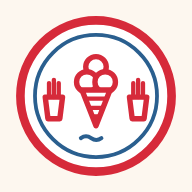
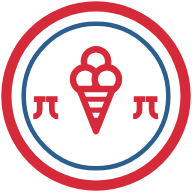
Logoet er hovedversionen - og topbjaelken fik den lille variant
Mikkel afleverede den opdaterede hovedversion sammen med sin nye
intro-animation. Ingen SQL.

GEOMETRIEN ER HANS, IKKE TEGNET EFTER ET SKUD. Jeg var ved at trace
maerkerne i siden af et skaermbillede og laeste dem som pi - de er
et J og dets spejlbillede, hvilket foerst stod klart da intro-filen
kom. En krans der er en smule forkert ser rigtig ud; samme lære som
QR-koderne fik 23/8. Bed om vektoren foer du tegner et logo efter et
billede.

Tre ting skiftede: baegrene med pommes og boelgen er ude,
JI-maerkerne og EST. 2025 er inde. Ringene, ringteksten, isen og
keglen er uaendret.

- 15 kranse i 13 filer, plus favicon og de to PWA-ikoner. Ikonerne
  tegnes AF favicon.svg (vaerktoej/lav-ikoner.js), saa de tre flader
  ikke kan skride fra hinanden - arret fra 29/8
- EST. 2025 er logoets egen blaa (#2a5f8f). Hele den marineblaa
  familie er ellers forbudt i stilarkene; her hoerer den til, for et
  logo skifter ikke farve med et tema
- Favicon og app-ikon har ikke EST. 2025, af samme grund som de ikke
  har ringteksten

OG TOPBJAELKENS KRANS VAR ULAESELIG - MAALT, IKKE SET. Briefen siger
"under ca. 60 px bliver ringteksten ulaeselig", og maalingen gav ham
ret: de tolv kranse i topbjaelkerne stod paa 28-50 px. De er den
lille variant nu (kun ring og is, tykkere streger, ingen tekst).
Heroens (108-140 px), introens og skiltets (80 px paa papir) er den
fulde.

- Ordmaerket ved siden af er IKKE bygget. Briefens topbjaelke har
[…]

diff --git a/index.html b/index.html
@@ -58,7 +58,7 @@
      briefen, at den kun var til gennemsyn.
      ============================================================ -->
 <div id="intro" role="presentation"><canvas id="water" aria-hidden="true"></canvas>
-<div class="logo" id="logo"><svg class="crest" viewBox="0 0 300 300" role="img" aria-label="Mosede Havnecafe"><defs><path id="in2" d="M38.65 109.5A118.5 118.5 0 0 1 261.35 109.5"/></defs><circle cx="150" cy="150" r="140" fill="#fff" stroke="#d62a3a" stroke-width="8"/><circle cx="150" cy="150" r="113" fill="none" stroke="#2a5f8f" stroke-width="3.4"/><text class="ct" text-anchor="middle"><textPath href="#in2" startOffset="50%">MOSEDE HAVNECAFE</textPath></text><path d="M122 228q9.5-7 19 0t19 0" fill="none" stroke="#2a5f8f" stroke-width="3.6" stroke-linecap="round"/><g fill="#fff" stroke="#d62a3a" stroke-width="4.6" stroke-linejoin="round" stroke-linecap="round"><circle cx="150" cy="96" r="19"/><circle cx="133" cy="124" r="19"/><circle cx="167" cy="124" r="19"/><path d="M124 139h52l-26 66z"/><path d="M56 152h32l-5 40H61z"/><path d="M212 152h32l-5 40h-22z"/></g><g fill="none" stroke="#d62a3a" stroke-width="3.6" stroke-linejoin="round" stroke-linecap="round"><path d="M131 155h38M138 172h24M144 188h12"/><path d="M63 152v-26M72 152v-32M81 152v-26"/><path d="M219 152v-26M228 152v-32M237 152v-26"/></g></svg>
+<div class="logo" id="logo"><svg class="crest" viewBox="0 0 300 300" role="img" aria-label="Mosede Havnecafe"><defs><path id="in2" d="M38.65 109.5A118.5 118.5 0 0 1 261.35 109.5"/><g id="in2j" fill="none" stroke="#d62a3a" stroke-width="5.4" stroke-linecap="butt"><path d="M2 3h18M11 3v17a10 10 0 0 1-10 10"/><g transform="translate(41 0) scale(-1 1)"><path d="M2 3h18M11 3v17a10 10 0 0 1-10 10"/></g></g></defs><circle cx="150" cy="150" r="140" fill="#fff" stroke="#d62a3a" stroke-width="8"/><circle cx="150" cy="150" r="113" fill="none" stroke="#2a5f8f" stroke-width="3.4"/><text class="ct" text-anchor="middle"><textPath href="#in2" startOffset="50%">MOSEDE HAVNECAFE</textPath></text><g fill="#fff" stroke="#d62a3a" stroke-width="4.6" stroke-linejoin="round" stroke-linecap="round"><circle cx="150" cy="96" r="19"/><circle cx="133" cy="124" r="19"/><circle cx="167" cy="124" r="19"/><path d="M124 139h52l-26 66z"/></g><g fill="none" stroke="#d62a3a" stroke-width="3.6" stroke-linejoin="round" stroke-linecap="round"><path d="M131 155h38M138 172h24M144 188h12"/></g><use href="#in2j" transform="translate(51 152)"/><use href="#in2j" transform="translate(207 152)"/><text class="est" x="150" y="236" text-anchor="middle">EST. 2025</text></svg>
 <div class="clipe"><div id="film"></div></div><div class="clipe"><div id="sheen"></div></div></div>
 <canvas id="fx" aria-hidden="true"></canvas></div>
 <div class="device">
@@ -90,10 +90,10 @@
   <p id="topstribe-tekst"></p>
 </div>
 
-<div class="topbar" id="tb"><div class="brandmark"><svg class="crest" viewBox="0 0 300 300" role="img" aria-label="Mosede Havnecafe"><defs><path id="ta" d="M38.65 109.5A118.5 118.5 0 0 1 261.35 109.5"/></defs><circle cx="150" cy="150" r="140" fill="#fff" stroke="#d62a3a" stroke-width="8"/><circle cx="150" cy="150" r="113" fill="none" stroke="#2a5f8f" stroke-width="3.4"/><text class="ct" text-anchor="middle"><textPath href="#ta" startOffset="50%">MOSEDE HAVNECAFE</textPath></text><path d="M122 228q9.5-7 19 0t19 0" fill="none" stroke="#2a5f8f" stroke-width="3.6" stroke-linecap="round"/><g fill="#fff" stroke="#d62a3a" stroke-width="4.6" stroke-linejoin="round" stroke-linecap="round"><circle cx="150" cy="96" r="19"/><circle cx="133" cy="124" r="19"/><circle cx="167" cy="124" r="19"/><path d="M124 139h52l-26 66z"/><path d="M56 152h32l-5 40H61z"/><path d="M212 152h32l-5 40h-22z"/></g><g fill="none" stroke="#d62a3a" stroke-width="3.6" stroke-linejoin="round" stroke-linecap="round"><path d="M131 155h38M138 172h24M144 188h12"/><path d="M63 152v-26M72 152v-32M81 152v-26"/><path d="M219 152v-26M228 152v-32M237 152v-26"/></g></svg></div><span class="sp"></span><button class="g icn dark menu" id="burger" aria-label="Menu"><svg viewBox="0 0 24 24" fill="none" stroke="currentColor" stroke-width="2" stroke-linecap="round"><path d="M4 7h16M4 12h16M4 17h16"/></svg></button></div>
+<div class="topbar" id="tb"><div class="brandmark"><svg class="crest lille" viewBox="0 0 300 300" role="img" aria-label="Mosede Havnecafe"><circle cx="150" cy="150" r="140" fill="#fff" stroke="#d62a3a" stroke-width="16"/><g fill="#fff" stroke="#d62a3a" stroke-width="11" stroke-linejoin="round" stroke-linecap="round"><circle cx="150" cy="98" r="22"/><circle cx="131" cy="130" r="22"/><circle cx="169" cy="130" r="22"/><path d="M122 146h56l-28 68z"/></g></svg></div><span class="sp"></span><button class="g icn dark menu" id="burger" aria-label="Menu"><svg viewBox="0 0 24 24" fill="none" stroke="currentColor" stroke-width="2" stroke-linecap="round"><path d="M4 7h16M4 12h16M4 17h16"/></svg></button></div>
 
 <div class="hero">
-  <div class="hero-badge"><svg class="crest" viewBox="0 0 300 300" role="img" aria-label="Mosede Havnecafe"><defs><path id="ta2" d="M38.65 109.5A118.5 118.5 0 0 1 261.35 109.5"/></defs><circle cx="150" cy="150" r="140" fill="#fff" stroke="#d62a3a" stroke-width="8"/><circle cx="150" cy="150" r="113" fill="none" stroke="#2a5f8f" stroke-width="3.4"/><text class="ct" text-anchor="middle"><textPath href="#ta2" startOffset="50%">MOSEDE HAVNECAFE</textPath></text><path d="M122 228q9.5-7 19 0t19 0" fill="none" stroke="#2a5f8f" stroke-width="3.6" stroke-linecap="round"/><g fill="#fff" stroke="#d62a3a" stroke-width="4.6" stroke-linejoin="round" stroke-linecap="round"><circle cx="150" cy="96" r="19"/><circle cx="133" cy="124" r="19"/><circle cx="167" cy="124" r="19"/><path d="M124 139h52l-26 66z"/><path d="M56 152h32l-5 40H61z"/><path d="M212 152h32l-5 40h-22z"/></g><g fill="none" stroke="#d62a3a" stroke-width="3.6" stroke-linejoin="round" stroke-linecap="round"><path d="M131 155h38M138 172h24M144 188h12"/><path d="M63 152v-26M72 152v-32M81 152v-26"/><path d="M219 152v-26M228 152v-32M237 152v-26"/></g></svg></div>
+  <div class="hero-badge"><svg class="crest" viewBox="0 0 300 300" role="img" aria-label="Mosede Havnecafe"><defs><path id="ta2" d="M38.65 109.5A118.5 118.5 0 0 1 261.35 109.5"/><g id="ta2j" fill="none" stroke="#d62a3a" stroke-width="5.4" stroke-linecap="butt"><path d="M2 3h18M11 3v17a10 10 0 0 1-10 10"/><g transform="translate(41 0) scale(-1 1)"><path d="M2 3h18M11 3v17a10 10 0 0 1-10 10"/></g></g></defs><circle cx="150" cy="150" r="140" fill="#fff" stroke="#d62a3a" stroke-width="8"/><circle cx="150" cy="150" r="113" fill="none" stroke="#2a5f8f" stroke-width="3.4"/><text class="ct" text-anchor="middle"><textPath href="#ta2" startOffset="50%">MOSEDE HAVNECAFE</textPath></text><g fill="#fff" stroke="#d62a3a" stroke-width="4.6" stroke-linejoin="round" stroke-linecap="round"><circle cx="150" cy="96" r="19"/><circle cx="133" cy="124" r="19"/><circle cx="167" cy="124" r="19"/><path d="M124 139h52l-26 66z"/></g><g fill="none" stroke="#d62a3a" stroke-width="3.6" stroke-linejoin="round" stroke-linecap="round"><path d="M131 155h38M138 172h24M144 188h12"/></g><use href="#ta2j" transform="translate(51 152)"/><use href="#ta2j" transform="translate(207 152)"/><text class="est" x="150" y="236" text-anchor="middle">EST. 2025</text></svg></div>
   <div class="hero-in">
     <h1>Grillmad, smørrebrød og <em>is</em> direkte ved havnen</h1>
     <span class="status"><span class="dot"></span>Lukket lige nu · åbner 10.00</span>

diff --git a/tests/kontakt-post.spec.js b/tests/kontakt-post.spec.js
@@ -568,8 +568,22 @@ test.describe('Fanens ikon er kransen', () => {
        stilarkene, men her hører den til. */
     expect(svg, 'kransens blå inderring mangler — det er ikke logoet')
       .toContain('#2a5f8f');
-    expect(svg, 'bølgen under isen mangler')
-      .toMatch(/M122 228q9\.5-7 19 0t19 0/);
+
+    /* ⚠ VENDT 3/9 — HOVEDVERSIONEN. Her stod, at BØLGEN skulle
+       være der. Mikkel afleverede den opdaterede hovedversion med
+       sin egen intro-fil: bølgen og bægrene med pommes er ude, og
+       JI-mærkerne (et J og dets spejlbillede) er inde. Det er
+       kundens beslutning om sit eget logo, ikke en forældet prøve.
+
+       Reglen, prøven vogter, er den SAMME og den vigtigste: at
+       ikonet er logoet og ikke en forenklet efterligning. Det er
+       bare J'et og ikke bølgen, der nu er kendingen. */
+    expect(svg, 'JI-mærkerne mangler — det er ikke hovedversionen')
+      .toMatch(/M11 3v17a10 10 0 0 1-10 10/);
+    expect(svg, 'bølgen er tilbage — den hører til den GAMLE krans')
+      .not.toContain('M122 228');
+    expect(svg, 'bægrene med pommes er tilbage — de er ude af hovedversionen')
+      .not.toContain('M56 152h32');
     /* Bådens to farver må aldrig komme igen. #0f2c44 var
        marineblå fra den GAMLE forside, #d1462f den gamle røde. */
     expect(svg, 'den gamle båds marineblå er tilbage i ikonet')
@@ -675,7 +689,12 @@ test.describe('Mærket er den runde krans', () => {
     let kranse = 0;
     for (const f of sider) {
       const tekst = fs.readFileSync(path.join(ROD, f), 'utf8');
-      if (!tekst.includes('class="crest"')) continue;
+      /* ⚠ TO VARIANTER SIDEN 3/9, og de tælles begge. Topbjælken
+         bruger den LILLE (class="crest lille"), heroen og skiltet
+         den fulde — så en prøve, der kun kendte den ene, ville
+         tælle 2 i stedet for 12 og se ud som om mærket var røget
+         af ti sider. Det skete, første gang varianten kom ind. */
+      if (!tekst.includes('class="crest')) continue;
       kranse++;
       expect(tekst, f + ' har den gamle ovale krans (200x140)')
         .not.toContain('viewBox="0 0 200 140"');
@@ -683,6 +702,15 @@ test.describe('Mærket er den runde krans', () => {
         .not.toContain('OG ISHUS');
       expect(tekst, f + ' har en krans, der ikke er den runde (300-net)')
         .toContain('viewBox="0 0 300 300"');
+
+      /* ⚠ HOVEDVERSIONEN FRA 3/9. Bølgen og bægrene med pommes
+         er ude af logoet — står de på en side, er det den GAMLE
+         krans, og to mærker på det samme hus er præcis den fejl,
+         kunden selv fangede 29/8. */
+      expect(tekst, f + ' har den gamle bølge under isen')
+        .not.toContain('M122 228');
+      expect(tekst, f + ' har de gamle bægre med pommes')
+        .not.toContain('M56 152h32');
     }
     /* Tallet faldt fra 19 til 12 den 30/8, da syv gamle adresser
        blev til vejvisere — ikke fordi mærket forsvandt fra en
@@ -691,6 +719,76 @@ test.describe('Mærket er den runde krans', () => {
        anden halvdel af fejlen fra 29/8 (ni sider uden favicon). */
     expect(kranse).toBeGreaterThanOrEqual(12);
   });
+
+  /* ============================================================
+     DEN LILLE VARIANT UNDER 60 PX  (3/9)
+     ------------------------------------------------------------
+     Briefens ord: ".top .mini bruger den lille logovariant (kun
+     ring og is, ingen tekst). Under ca. 60 px bliver ringteksten
+     ulæselig — brug altid den lille variant der."
+
+     ⚠ OG DET ER MÅLT, IKKE TROET: de tolv kranse i topbjælkerne
+     stod på 28-50 px, og "MOSEDE HAVNECAFE" var en grå udtværing
+     hele vejen rundt. Prøven læser den RENDEREDE bredde, ikke
+     stilarket — en krans, der en dag bliver mindre, falder her.
+     ============================================================ */
+  const MED_TOPBJAELKE = ['/index.html', '/m-menukort.html', '/m-tapas.html',
+    '/h-smorrebrod.html', '/h-selskaber.html', '/h-baglokale.html',
+    '/h-catering.html', '/h-frokost.html', '/h-kalender.html',
+    '/historien.html', '/bestil/', '/bord/'];
+
+  for (const side of MED_TOPBJAELKE) {
+    test('kransen under 60 px er den lille variant · ' + side,
+      async ({ page }) => {
+        await page.goto(side, { waitUntil: 'domcontentloaded' });
+        await page.evaluate(() => {
+          const i = document.getElementById('intro');
+          if (i) i.remove();
+        });
+        const maal = await page.evaluate(() => [...document.querySelectorAll('.crest')]
+          .map((c) => ({
+            w: Math.round(c.getBoundingClientRect().width),
+            /* Ringteksten ER kendingen på den fulde variant. */
+            tekst: !!c.querySelector('.ct'),
+            lille: c.classList.contains('lille'),
+          }))
+          .filter((x) => x.w > 0));
+
+        expect(maal.length, side + ' har ingen krans').toBeGreaterThan(0);
+        for (const m of maal) {
+          if (m.w < 60) {
+            expect(m.lille,
+              side + ': en krans på ' + m.w + ' px er den FULDE variant — '
+              + 'ringteksten er en grå udtværing dernede').toBe(true);
+            expect(m.tekst,
+              side + ': den lille variant har ringtekst').toBe(false);
+          }
+        }
+      });
+  }
+
+  /* ⚠ OG DEN FULDE VARIANT SKAL STADIG FINDES — ellers kunne man
+     "bestå" ovenstående ved at gøre hver eneste krans lille, og så
+     stod navnet ingen steder i mærket. Heroen på forsiden er den
+     ene, der er stor nok. */
+  test('heroens krans er den fulde, med ringtekst og EST. 2025',
+    async ({ page }) => {
+      await page.goto('/index.html', { waitUntil: 'domcontentloaded' });
+      await page.evaluate(() => {
+        const i = document.getElementById('intro');
+        if (i) i.remove();
+      });
+      const k = page.locator('.hero-badge .crest');
+      expect(await k.evaluate((c) => Math.round(c.getBoundingClientRect().width)))
+        .toBeGreaterThanOrEqual(60);
+      await expect(k.locator('.ct')).toHaveText(/MOSEDE HAVNECAFE/);
+      await expect(k.locator('.est')).toHaveText('EST. 2025');
+      /* De to farver er LOGOETS egne, ikke sidens tema. */
+      expect(await k.locator('.ct').evaluate((e) => getComputedStyle(e).fill))
+        .toBe('rgb(214, 42, 58)');
+      expect(await k.locator('.est').evaluate((e) => getComputedStyle(e).fill))
+        .toBe('rgb(42, 95, 143)');
+    });
 
   /* ÉN RØD — OG INGEN MARINEBLÅ — PÅ HELE HUSET (29/8).
      style.css' --red var #d1462f, den gamle orange-røde, og hele

diff --git a/h-kalender.html b/h-kalender.html
@@ -40,7 +40,7 @@
 <link rel="icon" href="favicon.svg" type="image/svg+xml"><link rel="stylesheet" href="havnegrillen.css?v=__V__"><link rel="stylesheet" href="havnegrillen-desktop.css?v=__V__"></head><body class="hav">
 <div class="device">
 <div class="screen" id="sc">
-<div class="topbar" id="tb"><a class="g icn dark" href="index.html" aria-label="Tilbage"><svg viewBox="0 0 24 24" fill="none" stroke="currentColor" stroke-width="2" stroke-linecap="round" stroke-linejoin="round"><path d="M14 6l-6 6 6 6"/></svg></a><div class="brandmark" style="width:45px"><svg class="crest" viewBox="0 0 300 300" role="img" aria-label="Mosede Havnecafe"><defs><path id="ta_hkalenderhtml" d="M38.65 109.5A118.5 118.5 0 0 1 261.35 109.5"/></defs><circle cx="150" cy="150" r="140" fill="#fff" stroke="#d62a3a" stroke-width="8"/><circle cx="150" cy="150" r="113" fill="none" stroke="#2a5f8f" stroke-width="3.4"/><text class="ct" text-anchor="middle"><textPath href="#ta_hkalenderhtml" startOffset="50%">MOSEDE HAVNECAFE</textPath></text><path d="M122 228q9.5-7 19 0t19 0" fill="none" stroke="#2a5f8f" stroke-width="3.6" stroke-linecap="round"/><g fill="#fff" stroke="#d62a3a" stroke-width="4.6" stroke-linejoin="round" stroke-linecap="round"><circle cx="150" cy="96" r="19"/><circle cx="133" cy="124" r="19"/><circle cx="167" cy="124" r="19"/><path d="M124 139h52l-26 66z"/><path d="M56 152h32l-5 40H61z"/><path d="M212 152h32l-5 40h-22z"/></g><g fill="none" stroke="#d62a3a" stroke-width="3.6" stroke-linejoin="round" stroke-linecap="round"><path d="M131 155h38M138 172h24M144 188h12"/><path d="M63 152v-26M72 152v-32M81 152v-26"/><path d="M219 152v-26M228 152v-32M237 152v-26"/></g></svg></div><span class="sp"></span><button class="g icn dark menu" id="burger" aria-label="Menu"><svg viewBox="0 0 24 24" fill="none" stroke="currentColor" stroke-width="2" stroke-linecap="round"><path d="M4 7h16M4 12h16M4 17h16"/></svg></button></div>
+<div class="topbar" id="tb"><a class="g icn dark" href="index.html" aria-label="Tilbage"><svg viewBox="0 0 24 24" fill="none" stroke="currentColor" stroke-width="2" stroke-linecap="round" stroke-linejoin="round"><path d="M14 6l-6 6 6 6"/></svg></a><div class="brandmark" style="width:45px"><svg class="crest lille" viewBox="0 0 300 300" role="img" aria-label="Mosede Havnecafe"><circle cx="150" cy="150" r="140" fill="#fff" stroke="#d62a3a" stroke-width="16"/><g fill="#fff" stroke="#d62a3a" stroke-width="11" stroke-linejoin="round" stroke-linecap="round"><circle cx="150" cy="98" r="22"/><circle cx="131" cy="130" r="22"/><circle cx="169" cy="130" r="22"/><path d="M122 146h56l-28 68z"/></g></svg></div><span class="sp"></span><button class="g icn dark menu" id="burger" aria-label="Menu"><svg viewBox="0 0 24 24" fill="none" stroke="currentColor" stroke-width="2" stroke-linecap="round"><path d="M4 7h16M4 12h16M4 17h16"/></svg></button></div>
 <div class="phead"><div class="eyebrow">Hvad sker der</div><h1>Kalender og<br>arrangementer</h1><div class="dots"><i></i><i></i><i></i><i></i><i></i><i></i></div><p class="sub">Live musik på molen, fællesspisning og torskegilde. Reservér en plads, eller kig bare forbi.</p></div>
 <section style="padding-top:20px">
 <div class="chipset rev" data-chips="single" style="justify-content:center"><button class="on">Alt</button><button>Musik</button><button>Spisning</button><button>Fest</button></div>

diff --git a/h-baglokale.html b/h-baglokale.html
@@ -40,7 +40,7 @@
 <link rel="icon" href="favicon.svg" type="image/svg+xml"><link rel="stylesheet" href="havnegrillen.css?v=__V__"><link rel="stylesheet" href="havnegrillen-desktop.css?v=__V__"></head><body class="hav">
 <div class="device">
 <div class="screen" id="sc">
-<div class="topbar" id="tb"><a class="g icn dark" href="index.html" aria-label="Tilbage"><svg viewBox="0 0 24 24" fill="none" stroke="currentColor" stroke-width="2" stroke-linecap="round" stroke-linejoin="round"><path d="M14 6l-6 6 6 6"/></svg></a><div class="brandmark" style="width:45px"><svg class="crest" viewBox="0 0 300 300" role="img" aria-label="Mosede Havnecafe"><defs><path id="ta_hbaglokalehtml" d="M38.65 109.5A118.5 118.5 0 0 1 261.35 109.5"/></defs><circle cx="150" cy="150" r="140" fill="#fff" stroke="#d62a3a" stroke-width="8"/><circle cx="150" cy="150" r="113" fill="none" stroke="#2a5f8f" stroke-width="3.4"/><text class="ct" text-anchor="middle"><textPath href="#ta_hbaglokalehtml" startOffset="50%">MOSEDE HAVNECAFE</textPath></text><path d="M122 228q9.5-7 19 0t19 0" fill="none" stroke="#2a5f8f" stroke-width="3.6" stroke-linecap="round"/><g fill="#fff" stroke="#d62a3a" stroke-width="4.6" stroke-linejoin="round" stroke-linecap="round"><circle cx="150" cy="96" r="19"/><circle cx="133" cy="124" r="19"/><circle cx="167" cy="124" r="19"/><path d="M124 139h52l-26 66z"/><path d="M56 152h32l-5 40H61z"/><path d="M212 152h32l-5 40h-22z"/></g><g fill="none" stroke="#d62a3a" stroke-width="3.6" stroke-linejoin="round" stroke-linecap="round"><path d="M131 155h38M138 172h24M144 188h12"/><path d="M63 152v-26M72 152v-32M81 152v-26"/><path d="M219 152v-26M228 152v-32M237 152v-26"/></g></svg></div><span class="sp"></span><button class="g icn dark menu" id="burger" aria-label="Menu"><svg viewBox="0 0 24 24" fill="none" stroke="currentColor" stroke-width="2" stroke-linecap="round"><path d="M4 7h16M4 12h16M4 17h16"/></svg></button></div>
+<div class="topbar" id="tb"><a class="g icn dark" href="index.html" aria-label="Tilbage"><svg viewBox="0 0 24 24" fill="none" stroke="currentColor" stroke-width="2" stroke-linecap="round" stroke-linejoin="round"><path d="M14 6l-6 6 6 6"/></svg></a><div class="brandmark" style="width:45px"><svg class="crest lille" viewBox="0 0 300 300" role="img" aria-label="Mosede Havnecafe"><circle cx="150" cy="150" r="140" fill="#fff" stroke="#d62a3a" stroke-width="16"/><g fill="#fff" stroke="#d62a3a" stroke-width="11" stroke-linejoin="round" stroke-linecap="round"><circle cx="150" cy="98" r="22"/><circle cx="131" cy="130" r="22"/><circle cx="169" cy="130" r="22"/><path d="M122 146h56l-28 68z"/></g></svg></div><span class="sp"></span><button class="g icn dark menu" id="burger" aria-label="Menu"><svg viewBox="0 0 24 24" fill="none" stroke="currentColor" stroke-width="2" stroke-linecap="round"><path d="M4 7h16M4 12h16M4 17h16"/></svg></button></div>
 <div class="phead"><div class="eyebrow">Udleje</div><h1>Baglokalet<br>helt for jer selv</h1><div class="dots"><i></i><i></i><i></i><i></i><i></i><i></i></div><p class="sub">Eget lokale med udsigt over havnen — plads til <span data-vilk="pladser">40</span> siddende. Med mad fra grillen, eller helt uden.</p></div>
 <div class="evhero rev"><image-slot id="baglokale-foto" placeholder="Foto af baglokalet" data-tegn="🔑" data-flade="broed"></image-slot></div>
 <section style="padding-top:20px">

diff --git a/m-menukort.html b/m-menukort.html
@@ -40,7 +40,7 @@
 <link rel="icon" href="favicon.svg" type="image/svg+xml"><link rel="stylesheet" href="havnegrillen.css?v=__V__"><link rel="stylesheet" href="menukort.css?v=__V__"><link rel="stylesheet" href="havnegrillen-desktop.css?v=__V__"></head><body class="hav">
 <div class="device">
 <div class="screen" id="sc">
-<div class="topbar" id="tb"><a class="g icn dark" href="index.html" aria-label="Tilbage"><svg viewBox="0 0 24 24" fill="none" stroke="currentColor" stroke-width="2" stroke-linecap="round" stroke-linejoin="round"><path d="M14 6l-6 6 6 6"/></svg></a><div class="brandmark" style="width:45px"><svg class="crest" viewBox="0 0 300 300" role="img" aria-label="Mosede Havnecafe"><defs><path id="ta_hsmorrebrodhtml" d="M38.65 109.5A118.5 118.5 0 0 1 261.35 109.5"/></defs><circle cx="150" cy="150" r="140" fill="#fff" stroke="#d62a3a" stroke-width="8"/><circle cx="150" cy="150" r="113" fill="none" stroke="#2a5f8f" stroke-width="3.4"/><text class="ct" text-anchor="middle"><textPath href="#ta_hsmorrebrodhtml" startOffset="50%">MOSEDE HAVNECAFE</textPath></text><path d="M122 228q9.5-7 19 0t19 0" fill="none" stroke="#2a5f8f" stroke-width="3.6" stroke-linecap="round"/><g fill="#fff" stroke="#d62a3a" stroke-width="4.6" stroke-linejoin="round" stroke-linecap="round"><circle cx="150" cy="96" r="19"/><circle cx="133" cy="124" r="19"/><circle cx="167" cy="124" r="19"/><path d="M124 139h52l-26 66z"/><path d="M56 152h32l-5 40H61z"/><path d="M212 152h32l-5 40h-22z"/></g><g fill="none" stroke="#d62a3a" stroke-width="3.6" stroke-linejoin="round" stroke-linecap="round"><path d="M131 155h38M138 172h24M144 188h12"/><path d="M63 152v-26M72 152v-32M81 152v-26"/><path d="M219 152v-26M228 152v-32M237 152v-26"/></g></svg></div><span class="sp"></span><button class="g icn dark menu" id="burger" aria-label="Menu"><svg viewBox="0 0 24 24" fill="none" stroke="currentColor" stroke-width="2" stroke-linecap="round"><path d="M4 7h16M4 12h16M4 17h16"/></svg></button></div>
+<div class="topbar" id="tb"><a class="g icn dark" href="index.html" aria-label="Tilbage"><svg viewBox="0 0 24 24" fill="none" stroke="currentColor" stroke-width="2" stroke-linecap="round" stroke-linejoin="round"><path d="M14 6l-6 6 6 6"/></svg></a><div class="brandmark" style="width:45px"><svg class="crest lille" viewBox="0 0 300 300" role="img" aria-label="Mosede Havnecafe"><circle cx="150" cy="150" r="140" fill="#fff" stroke="#d62a3a" stroke-width="16"/><g fill="#fff" stroke="#d62a3a" stroke-width="11" stroke-linejoin="round" stroke-linecap="round"><circle cx="150" cy="98" r="22"/><circle cx="131" cy="130" r="22"/><circle cx="169" cy="130" r="22"/><path d="M122 146h56l-28 68z"/></g></svg></div><span class="sp"></span><button class="g icn dark menu" id="burger" aria-label="Menu"><svg viewBox="0 0 24 24" fill="none" stroke="currentColor" stroke-width="2" stroke-linecap="round"><path d="M4 7h16M4 12h16M4 17h16"/></svg></button></div>
 <div class="phead"><div class="eyebrow">Altid noget godt</div><h1>Menukort</h1><div class="dots"><i></i><i></i><i></i><i></i><i></i><i></i></div><p class="sub">Hele kortet fra lugen: dagens ret for hver ugedag og vores faste sortiment. Kortet styres fra personalesiden, så det, der står her, er det, køkkenet laver.</p>
   <p class="mk-allergi">🥜 Allergi? Spørg personalet ift. allergener — vi hjælper gerne.</p></div>
 

diff --git a/h-smorrebrod.html b/h-smorrebrod.html
@@ -40,7 +40,7 @@
 <link rel="icon" href="favicon.svg" type="image/svg+xml"><link rel="stylesheet" href="havnegrillen.css?v=__V__"><link rel="stylesheet" href="havnegrillen-desktop.css?v=__V__"></head><body class="hav">
 <div class="device">
 <div class="screen" id="sc">
-<div class="topbar" id="tb"><a class="g icn dark" href="index.html" aria-label="Tilbage"><svg viewBox="0 0 24 24" fill="none" stroke="currentColor" stroke-width="2" stroke-linecap="round" stroke-linejoin="round"><path d="M14 6l-6 6 6 6"/></svg></a><div class="brandmark" style="width:45px"><svg class="crest" viewBox="0 0 300 300" role="img" aria-label="Mosede Havnecafe"><defs><path id="ta_hsmorrebrodhtml" d="M38.65 109.5A118.5 118.5 0 0 1 261.35 109.5"/></defs><circle cx="150" cy="150" r="140" fill="#fff" stroke="#d62a3a" stroke-width="8"/><circle cx="150" cy="150" r="113" fill="none" stroke="#2a5f8f" stroke-width="3.4"/><text class="ct" text-anchor="middle"><textPath href="#ta_hsmorrebrodhtml" startOffset="50%">MOSEDE HAVNECAFE</textPath></text><path d="M122 228q9.5-7 19 0t19 0" fill="none" stroke="#2a5f8f" stroke-width="3.6" stroke-linecap="round"/><g fill="#fff" stroke="#d62a3a" stroke-width="4.6" stroke-linejoin="round" stroke-linecap="round"><circle cx="150" cy="96" r="19"/><circle cx="133" cy="124" r="19"/><circle cx="167" cy="124" r="19"/><path d="M124 139h52l-26 66z"/><path d="M56 152h32l-5 40H61z"/><path d="M212 152h32l-5 40h-22z"/></g><g fill="none" stroke="#d62a3a" stroke-width="3.6" stroke-linejoin="round" stroke-linecap="round"><path d="M131 155h38M138 172h24M144 188h12"/><path d="M63 152v-26M72 152v-32M81 152v-26"/><path d="M219 152v-26M228 152v-32M237 152v-26"/></g></svg></div><span class="sp"></span><button class="g icn dark menu" id="burger" aria-label="Menu"><svg viewBox="0 0 24 24" fill="none" stroke="currentColor" stroke-width="2" stroke-linecap="round"><path d="M4 7h16M4 12h16M4 17h16"/></svg></button></div>
+<div class="topbar" id="tb"><a class="g icn dark" href="index.html" aria-label="Tilbage"><svg viewBox="0 0 24 24" fill="none" stroke="currentColor" stroke-width="2" stroke-linecap="round" stroke-linejoin="round"><path d="M14 6l-6 6 6 6"/></svg></a><div class="brandmark" style="width:45px"><svg class="crest lille" viewBox="0 0 300 300" role="img" aria-label="Mosede Havnecafe"><circle cx="150" cy="150" r="140" fill="#fff" stroke="#d62a3a" stroke-width="16"/><g fill="#fff" stroke="#d62a3a" stroke-width="11" stroke-linejoin="round" stroke-linecap="round"><circle cx="150" cy="98" r="22"/><circle cx="131" cy="130" r="22"/><circle cx="169" cy="130" r="22"/><path d="M122 146h56l-28 68z"/></g></svg></div><span class="sp"></span><button class="g icn dark menu" id="burger" aria-label="Menu"><svg viewBox="0 0 24 24" fill="none" stroke="currentColor" stroke-width="2" stroke-linecap="round"><path d="M4 7h16M4 12h16M4 17h16"/></svg></button></div>
 <div class="phead"><div class="eyebrow">Ud af huset</div><h1>Smørrebrød<br>ud af huset</h1><div class="dots"><i></i><i></i><i></i><i></i><i></i><i></i></div><p class="sub">Håndmadder, hele skiver, platter og fade — til fødselsdage, møder, receptioner og barnedåb. Skriv, hvad I skal bruge, så vender vi tilbage med en pris.</p></div>
 <!-- ============ FORRETNINGENS EGNE FOTOS ==================
      Kundens ord (29/8): galleriet skal ligge her og INTET andet

diff --git a/h-selskaber.html b/h-selskaber.html
@@ -40,7 +40,7 @@
 <link rel="icon" href="favicon.svg" type="image/svg+xml"><link rel="stylesheet" href="havnegrillen.css?v=__V__"><link rel="stylesheet" href="havnegrillen-desktop.css?v=__V__"></head><body class="hav">
 <div class="device">
 <div class="screen" id="sc">
-<div class="topbar" id="tb"><a class="g icn dark" href="index.html" aria-label="Tilbage"><svg viewBox="0 0 24 24" fill="none" stroke="currentColor" stroke-width="2" stroke-linecap="round" stroke-linejoin="round"><path d="M14 6l-6 6 6 6"/></svg></a><div class="brandmark" style="width:45px"><svg class="crest" viewBox="0 0 300 300" role="img" aria-label="Mosede Havnecafe"><defs><path id="ta_hselskaberhtml" d="M38.65 109.5A118.5 118.5 0 0 1 261.35 109.5"/></defs><circle cx="150" cy="150" r="140" fill="#fff" stroke="#d62a3a" stroke-width="8"/><circle cx="150" cy="150" r="113" fill="none" stroke="#2a5f8f" stroke-width="3.4"/><text class="ct" text-anchor="middle"><textPath href="#ta_hselskaberhtml" startOffset="50%">MOSEDE HAVNECAFE</textPath></text><path d="M122 228q9.5-7 19 0t19 0" fill="none" stroke="#2a5f8f" stroke-width="3.6" stroke-linecap="round"/><g fill="#fff" stroke="#d62a3a" stroke-width="4.6" stroke-linejoin="round" stroke-linecap="round"><circle cx="150" cy="96" r="19"/><circle cx="133" cy="124" r="19"/><circle cx="167" cy="124" r="19"/><path d="M124 139h52l-26 66z"/><path d="M56 152h32l-5 40H61z"/><path d="M212 152h32l-5 40h-22z"/></g><g fill="none" stroke="#d62a3a" stroke-width="3.6" stroke-linejoin="round" stroke-linecap="round"><path d="M131 155h38M138 172h24M144 188h12"/><path d="M63 152v-26M72 152v-32M81 152v-26"/><path d="M219 152v-26M228 152v-32M237 152v-26"/></g></svg></div><span class="sp"></span><button class="g icn dark menu" id="burger" aria-label="Menu"><svg viewBox="0 0 24 24" fill="none" stroke="currentColor" stroke-width="2" stroke-linecap="round"><path d="M4 7h16M4 12h16M4 17h16"/></svg></button></div>
+<div class="topbar" id="tb"><a class="g icn dark" href="index.html" aria-label="Tilbage"><svg viewBox="0 0 24 24" fill="none" stroke="currentColor" stroke-width="2" stroke-linecap="round" stroke-linejoin="round"><path d="M14 6l-6 6 6 6"/></svg></a><div class="brandmark" style="width:45px"><svg class="crest lille" viewBox="0 0 300 300" role="img" aria-label="Mosede Havnecafe"><circle cx="150" cy="150" r="140" fill="#fff" stroke="#d62a3a" stroke-width="16"/><g fill="#fff" stroke="#d62a3a" stroke-width="11" stroke-linejoin="round" stroke-linecap="round"><circle cx="150" cy="98" r="22"/><circle cx="131" cy="130" r="22"/><circle cx="169" cy="130" r="22"/><path d="M122 146h56l-28 68z"/></g></svg></div><span class="sp"></span><button class="g icn dark menu" id="burger" aria-label="Menu"><svg viewBox="0 0 24 24" fill="none" stroke="currentColor" stroke-width="2" stroke-linecap="round"><path d="M4 7h16M4 12h16M4 17h16"/></svg></button></div>
 <div class="phead"><div class="eyebrow">Selskaber</div><h1>Fødselsdag, frokost<br>eller fest</h1><div class="dots"><i></i><i></i><i></i><i></i><i></i><i></i></div><p class="sub">Fortæl os om jeres dag, så vender vi tilbage med et forslag og en pris. Vi holder alt fra 10 til 60 gæster.</p></div>
 <section style="padding-top:22px">
 <div class="facts rev">

diff --git a/h-frokost.html b/h-frokost.html
@@ -40,7 +40,7 @@
 <link rel="icon" href="favicon.svg" type="image/svg+xml"><link rel="stylesheet" href="havnegrillen.css?v=__V__"><link rel="stylesheet" href="havnegrillen-desktop.css?v=__V__"></head><body class="hav">
 <div class="device">
 <div class="screen" id="sc">
-<div class="topbar" id="tb"><a class="g icn dark" href="index.html" aria-label="Tilbage"><svg viewBox="0 0 24 24" fill="none" stroke="currentColor" stroke-width="2" stroke-linecap="round" stroke-linejoin="round"><path d="M14 6l-6 6 6 6"/></svg></a><div class="brandmark" style="width:45px"><svg class="crest" viewBox="0 0 300 300" role="img" aria-label="Mosede Havnecafe"><defs><path id="ta_hfrokosthtml" d="M38.65 109.5A118.5 118.5 0 0 1 261.35 109.5"/></defs><circle cx="150" cy="150" r="140" fill="#fff" stroke="#d62a3a" stroke-width="8"/><circle cx="150" cy="150" r="113" fill="none" stroke="#2a5f8f" stroke-width="3.4"/><text class="ct" text-anchor="middle"><textPath href="#ta_hfrokosthtml" startOffset="50%">MOSEDE HAVNECAFE</textPath></text><path d="M122 228q9.5-7 19 0t19 0" fill="none" stroke="#2a5f8f" stroke-width="3.6" stroke-linecap="round"/><g fill="#fff" stroke="#d62a3a" stroke-width="4.6" stroke-linejoin="round" stroke-linecap="round"><circle cx="150" cy="96" r="19"/><circle cx="133" cy="124" r="19"/><circle cx="167" cy="124" r="19"/><path d="M124 139h52l-26 66z"/><path d="M56 152h32l-5 40H61z"/><path d="M212 152h32l-5 40h-22z"/></g><g fill="none" stroke="#d62a3a" stroke-width="3.6" stroke-linejoin="round" stroke-linecap="round"><path d="M131 155h38M138 172h24M144 188h12"/><path d="M63 152v-26M72 152v-32M81 152v-26"/><path d="M219 152v-26M228 152v-32M237 152v-26"/></g></svg></div><span class="sp"></span><button class="g icn dark menu" id="burger" aria-label="Menu"><svg viewBox="0 0 24 24" fill="none" stroke="currentColor" stroke-width="2" stroke-linecap="round"><path d="M4 7h16M4 12h16M4 17h16"/></svg></button></div>
+<div class="topbar" id="tb"><a class="g icn dark" href="index.html" aria-label="Tilbage"><svg viewBox="0 0 24 24" fill="none" stroke="currentColor" stroke-width="2" stroke-linecap="round" stroke-linejoin="round"><path d="M14 6l-6 6 6 6"/></svg></a><div class="brandmark" style="width:45px"><svg class="crest lille" viewBox="0 0 300 300" role="img" aria-label="Mosede Havnecafe"><circle cx="150" cy="150" r="140" fill="#fff" stroke="#d62a3a" stroke-width="16"/><g fill="#fff" stroke="#d62a3a" stroke-width="11" stroke-linejoin="round" stroke-linecap="round"><circle cx="150" cy="98" r="22"/><circle cx="131" cy="130" r="22"/><circle cx="169" cy="130" r="22"/><path d="M122 146h56l-28 68z"/></g></svg></div><span class="sp"></span><button class="g icn dark menu" id="burger" aria-label="Menu"><svg viewBox="0 0 24 24" fill="none" stroke="currentColor" stroke-width="2" stroke-linecap="round"><path d="M4 7h16M4 12h16M4 17h16"/></svg></button></div>
 <div class="phead"><div class="eyebrow">Erhverv</div><h1>Frokost til<br>arbejdspladsen</h1><div class="dots"><i></i><i></i><i></i><i></i><i></i><i></i></div><p class="sub">Fast frokostordning for virksomheder i Greve, Karlslunde og Solrød. Vi kører den ud hver morgen — I laver ingenting.</p></div>
 <section style="padding-top:22px">
 <div class="facts rev">

diff --git a/h-catering.html b/h-catering.html
@@ -40,7 +40,7 @@
 <link rel="icon" href="favicon.svg" type="image/svg+xml"><link rel="stylesheet" href="havnegrillen.css?v=__V__"><link rel="stylesheet" href="havnegrillen-desktop.css?v=__V__"></head><body class="hav">
 <div class="device">
 <div class="screen" id="sc">
-<div class="topbar" id="tb"><a class="g icn dark" href="index.html" aria-label="Tilbage"><svg viewBox="0 0 24 24" fill="none" stroke="currentColor" stroke-width="2" stroke-linecap="round" stroke-linejoin="round"><path d="M14 6l-6 6 6 6"/></svg></a><div class="brandmark" style="width:45px"><svg class="crest" viewBox="0 0 300 300" role="img" aria-label="Mosede Havnecafe"><defs><path id="ta_hcateringhtml" d="M38.65 109.5A118.5 118.5 0 0 1 261.35 109.5"/></defs><circle cx="150" cy="150" r="140" fill="#fff" stroke="#d62a3a" stroke-width="8"/><circle cx="150" cy="150" r="113" fill="none" stroke="#2a5f8f" stroke-width="3.4"/><text class="ct" text-anchor="middle"><textPath href="#ta_hcateringhtml" startOffset="50%">MOSEDE HAVNECAFE</textPath></text><path d="M122 228q9.5-7 19 0t19 0" fill="none" stroke="#2a5f8f" stroke-width="3.6" stroke-linecap="round"/><g fill="#fff" stroke="#d62a3a" stroke-width="4.6" stroke-linejoin="round" stroke-linecap="round"><circle cx="150" cy="96" r="19"/><circle cx="133" cy="124" r="19"/><circle cx="167" cy="124" r="19"/><path d="M124 139h52l-26 66z"/><path d="M56 152h32l-5 40H61z"/><path d="M212 152h32l-5 40h-22z"/></g><g fill="none" stroke="#d62a3a" stroke-width="3.6" stroke-linejoin="round" stroke-linecap="round"><path d="M131 155h38M138 172h24M144 188h12"/><path d="M63 152v-26M72 152v-32M81 152v-26"/><path d="M219 152v-26M228 152v-32M237 152v-26"/></g></svg></div><span class="sp"></span><button class="g icn dark menu" id="burger" aria-label="Menu"><svg viewBox="0 0 24 24" fill="none" stroke="currentColor" stroke-width="2" stroke-linecap="round"><path d="M4 7h16M4 12h16M4 17h16"/></svg></button></div>
+<div class="topbar" id="tb"><a class="g icn dark" href="index.html" aria-label="Tilbage"><svg viewBox="0 0 24 24" fill="none" stroke="currentColor" stroke-width="2" stroke-linecap="round" stroke-linejoin="round"><path d="M14 6l-6 6 6 6"/></svg></a><div class="brandmark" style="width:45px"><svg class="crest lille" viewBox="0 0 300 300" role="img" aria-label="Mosede Havnecafe"><circle cx="150" cy="150" r="140" fill="#fff" stroke="#d62a3a" stroke-width="16"/><g fill="#fff" stroke="#d62a3a" stroke-width="11" stroke-linejoin="round" stroke-linecap="round"><circle cx="150" cy="98" r="22"/><circle cx="131" cy="130" r="22"/><circle cx="169" cy="130" r="22"/><path d="M122 146h56l-28 68z"/></g></svg></div><span class="sp"></span><button class="g icn dark menu" id="burger" aria-label="Menu"><svg viewBox="0 0 24 24" fill="none" stroke="currentColor" stroke-width="2" stroke-linecap="round"><path d="M4 7h16M4 12h16M4 17h16"/></svg></button></div>
 <div class="phead"><div class="eyebrow">Catering</div><h1>Mad til jeres<br>arrangement</h1><div class="dots"><i></i><i></i><i></i><i></i><i></i><i></i></div><p class="sub">Vi laver maden, I holder festen — hjemme hos jer, i foreningshuset eller på båden. Fra 10 kuverter.</p></div>
 <section style="padding-top:22px">
 <div class="facts rev">

diff --git a/historien.html b/historien.html
@@ -24,7 +24,7 @@
 <link rel="icon" href="favicon.svg" type="image/svg+xml"><link rel="stylesheet" href="havnegrillen.css?v=__V__"><link rel="stylesheet" href="havnegrillen-desktop.css?v=__V__"><link rel="stylesheet" href="historien.css?v=__V__"></head><body class="hav hist">
 <div class="device">
 <div class="screen" id="sc">
-<div class="topbar" id="tb"><a class="g icn dark" href="index.html" aria-label="Tilbage"><svg viewBox="0 0 24 24" fill="none" stroke="currentColor" stroke-width="2" stroke-linecap="round" stroke-linejoin="round"><path d="M14 6l-6 6 6 6"/></svg></a><div class="brandmark" style="width:45px"><svg class="crest" viewBox="0 0 300 300" role="img" aria-label="Mosede Havnecafe"><defs><path id="ta_historienhtml" d="M38.65 109.5A118.5 118.5 0 0 1 261.35 109.5"/></defs><circle cx="150" cy="150" r="140" fill="#fff" stroke="#d62a3a" stroke-width="8"/><circle cx="150" cy="150" r="113" fill="none" stroke="#2a5f8f" stroke-width="3.4"/><text class="ct" text-anchor="middle"><textPath href="#ta_historienhtml" startOffset="50%">MOSEDE HAVNECAFE</textPath></text><path d="M122 228q9.5-7 19 0t19 0" fill="none" stroke="#2a5f8f" stroke-width="3.6" stroke-linecap="round"/><g fill="#fff" stroke="#d62a3a" stroke-width="4.6" stroke-linejoin="round" stroke-linecap="round"><circle cx="150" cy="96" r="19"/><circle cx="133" cy="124" r="19"/><circle cx="167" cy="124" r="19"/><path d="M124 139h52l-26 66z"/><path d="M56 152h32l-5 40H61z"/><path d="M212 152h32l-5 40h-22z"/></g><g fill="none" stroke="#d62a3a" stroke-width="3.6" stroke-linejoin="round" stroke-linecap="round"><path d="M131 155h38M138 172h24M144 188h12"/><path d="M63 152v-26M72 152v-32M81 152v-26"/><path d="M219 152v-26M228 152v-32M237 152v-26"/></g></svg></div><span class="sp"></span><button class="g icn dark menu" id="burger" aria-label="Menu"><svg viewBox="0 0 24 24" fill="none" stroke="currentColor" stroke-width="2" stroke-linecap="round"><path d="M4 7h16M4 12h16M4 17h16"/></svg></button></div>
+<div class="topbar" id="tb"><a class="g icn dark" href="index.html" aria-label="Tilbage"><svg viewBox="0 0 24 24" fill="none" stroke="currentColor" stroke-width="2" stroke-linecap="round" stroke-linejoin="round"><path d="M14 6l-6 6 6 6"/></svg></a><div class="brandmark" style="width:45px"><svg class="crest lille" viewBox="0 0 300 300" role="img" aria-label="Mosede Havnecafe"><circle cx="150" cy="150" r="140" fill="#fff" stroke="#d62a3a" stroke-width="16"/><g fill="#fff" stroke="#d62a3a" stroke-width="11" stroke-linejoin="round" stroke-linecap="round"><circle cx="150" cy="98" r="22"/><circle cx="131" cy="130" r="22"/><circle cx="169" cy="130" r="22"/><path d="M122 146h56l-28 68z"/></g></svg></div><span class="sp"></span><button class="g icn dark menu" id="burger" aria-label="Menu"><svg viewBox="0 0 24 24" fill="none" stroke="currentColor" stroke-width="2" stroke-linecap="round"><path d="M4 7h16M4 12h16M4 17h16"/></svg></button></div>
 
 <!-- ============================================================
      ÅBNINGEN

diff --git a/m-tapas.html b/m-tapas.html
@@ -40,7 +40,7 @@
 <link rel="icon" href="favicon.svg" type="image/svg+xml"><link rel="stylesheet" href="havnegrillen.css?v=__V__"><link rel="stylesheet" href="havnegrillen-desktop.css?v=__V__"></head><body class="hav">
 <div class="device">
 <div class="screen" id="sc">
-<div class="topbar" id="tb"><a class="g icn dark" href="index.html" aria-label="Tilbage"><svg viewBox="0 0 24 24" fill="none" stroke="currentColor" stroke-width="2" stroke-linecap="round" stroke-linejoin="round"><path d="M14 6l-6 6 6 6"/></svg></a><div class="brandmark" style="width:45px"><svg class="crest" viewBox="0 0 300 300" role="img" aria-label="Mosede Havnecafe"><defs><path id="ta" d="M38.65 109.5A118.5 118.5 0 0 1 261.35 109.5"/></defs><circle cx="150" cy="150" r="140" fill="#fff" stroke="#d62a3a" stroke-width="8"/><circle cx="150" cy="150" r="113" fill="none" stroke="#2a5f8f" stroke-width="3.4"/><text class="ct" text-anchor="middle"><textPath href="#ta" startOffset="50%">MOSEDE HAVNECAFE</textPath></text><path d="M122 228q9.5-7 19 0t19 0" fill="none" stroke="#2a5f8f" stroke-width="3.6" stroke-linecap="round"/><g fill="#fff" stroke="#d62a3a" stroke-width="4.6" stroke-linejoin="round" stroke-linecap="round"><circle cx="150" cy="96" r="19"/><circle cx="133" cy="124" r="19"/><circle cx="167" cy="124" r="19"/><path d="M124 139h52l-26 66z"/><path d="M56 152h32l-5 40H61z"/><path d="M212 152h32l-5 40h-22z"/></g><g fill="none" stroke="#d62a3a" stroke-width="3.6" stroke-linejoin="round" stroke-linecap="round"><path d="M131 155h38M138 172h24M144 188h12"/><path d="M63 152v-26M72 152v-32M81 152v-26"/><path d="M219 152v-26M228 152v-32M237 152v-26"/></g></svg></div><span class="sp"></span><button class="g icn dark menu" id="burger" aria-label="Menu"><svg viewBox="0 0 24 24" fill="none" stroke="currentColor" stroke-width="2" stroke-linecap="round"><path d="M4 7h16M4 12h16M4 17h16"/></svg></button></div>
+<div class="topbar" id="tb"><a class="g icn dark" href="index.html" aria-label="Tilbage"><svg viewBox="0 0 24 24" fill="none" stroke="currentColor" stroke-width="2" stroke-linecap="round" stroke-linejoin="round"><path d="M14 6l-6 6 6 6"/></svg></a><div class="brandmark" style="width:45px"><svg class="crest lille" viewBox="0 0 300 300" role="img" aria-label="Mosede Havnecafe"><circle cx="150" cy="150" r="140" fill="#fff" stroke="#d62a3a" stroke-width="16"/><g fill="#fff" stroke="#d62a3a" stroke-width="11" stroke-linejoin="round" stroke-linecap="round"><circle cx="150" cy="98" r="22"/><circle cx="131" cy="130" r="22"/><circle cx="169" cy="130" r="22"/><path d="M122 146h56l-28 68z"/></g></svg></div><span class="sp"></span><button class="g icn dark menu" id="burger" aria-label="Menu"><svg viewBox="0 0 24 24" fill="none" stroke="currentColor" stroke-width="2" stroke-linecap="round"><path d="M4 7h16M4 12h16M4 17h16"/></svg></button></div>
 
 <div class="thead">
   <div class="eyebrow">Nyhed · <span data-varsel>bestilles senest dagen før</span></div>

diff --git a/print/bordkort.html b/print/bordkort.html
@@ -410,19 +410,19 @@ body {
       var nr = String(b.nummer).replace(/[^A-Za-z0-9]/g, '') || 'x';
       mrk.innerHTML = '<svg class="crest" viewBox="0 0 300 300" role="img"'
         + ' aria-label="Mosede Havnecafe"><defs>'
-        + '<path id="ta' + nr + '" d="M38.65 109.5A118.5 118.5 0 0 1 261.35 109.5"/></defs>'
+        + '<path id="ta' + nr + '" d="M38.65 109.5A118.5 118.5 0 0 1 261.35 109.5"/><g id="ta' + nr + 'j" fill="none" stroke="#d62a3a" stroke-width="5.4" stroke-linecap="butt"><path d="M2 3h18M11 3v17a10 10 0 0 1-10 10"/><g transform="translate(41 0) scale(-1 1)"><path d="M2 3h18M11 3v17a10 10 0 0 1-10 10"/></g></g></defs>'
         + '<circle cx="150" cy="150" r="140" fill="#fff" stroke="#d62a3a" stroke-width="8"/>'
         + '<circle cx="150" cy="150" r="113" fill="none" stroke="#2a5f8f" stroke-width="3.4"/>'
         + '<text class="ct" text-anchor="middle"><textPath href="#ta' + nr
         + '" startOffset="50%">MOSEDE HAVNECAFE</textPath></text>'
-        + '<path d="M122 228q9.5-7 19 0t19 0" fill="none" stroke="#2a5f8f" stroke-width="3.6" stroke-linecap="round"/>'
+        + ''
         + '<g fill="#fff" stroke="#d62a3a" stroke-width="4.6" stroke-linejoin="round" stroke-linecap="round">'
         + '<circle cx="150" cy="96" r="19"/><circle cx="133" cy="124" r="19"/><circle cx="167" cy="124" r="19"/>'
-        + '<path d="M124 139h52l-26 66z"/><path d="M56 152h32l-5 40H61z"/><path d="M212 152h32l-5 40h-22z"/></g>'
+        + '<path d="M124 139h52l-26 66z"/></g>'
         + '<g fill="none" stroke="#d62a3a" stroke-width="3.6" stroke-linejoin="round" stroke-linecap="round">'
         + '<path d="M131 155h38M138 172h24M144 188h12"/>'
         + '<path d="M63 152v-26M72 152v-32M81 152v-26"/>'
-        + '<path d="M219 152v-26M228 152v-32M237 152v-26"/></g></svg>';
+        + '<path d="M219 152v-26M228 152v-32M237 152v-26"/></g><use href="#ta' + nr + 'j" transform="translate(51 152)"/><use href="#ta' + nr + 'j" transform="translate(207 152)"/><text class="est" x="150" y="236" text-anchor="middle">EST. 2025</text></svg>';
       kort.appendChild(mrk);
       kort.appendChild(lav('h1', null, 'Bord ' + b.nummer));
       /* Zonen står på skiltet, så den, der bærer bunken ud, kan se
